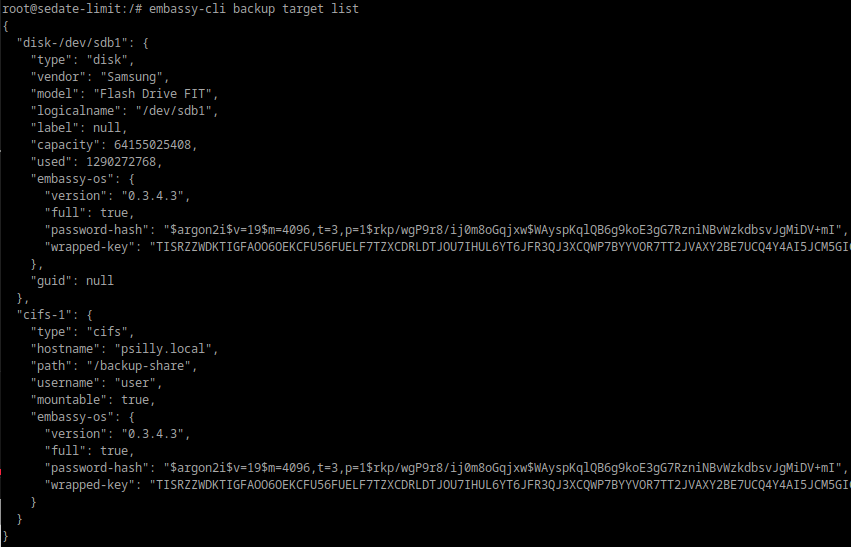
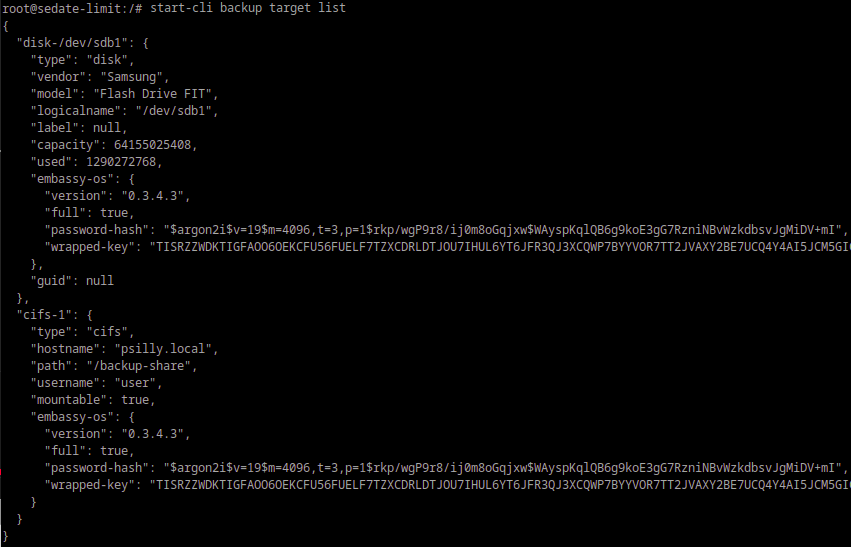
embassy-cli -> start-cli & touchups

Changed region(s): [[0.1528, 0.0, 0.4277, 0.0311]]

diff --git a/site/source/user-manual/overview/backup-restore/backup-advanced.rst b/site/source/user-manual/overview/backup-restore/backup-advanced.rst
@@ -20,7 +20,7 @@ Mount a Backup
 
     .. code-block:: bash
 
-        embassy-cli backup target list
+        start-cli backup target list
 
     .. figure:: /_static/images/backups/backup-target-list.png
         :width: 60%
@@ -29,7 +29,7 @@ Mount a Backup
 
     .. code-block:: bash
 
-        embassy-cli backup target mount disk-/dev/sdb1 "YourMasterPasswordGoesHere"
+        start-cli backup target mount disk-/dev/sdb1 "YourMasterPasswordGoesHere"
 
     .. figure:: /_static/images/backups/backup-mount.png
         :width: 60%
@@ -53,7 +53,7 @@ If you have an encrypted disk from a prior StartOS installation, you can mount i
 
     .. code-block:: bash
 
-        sudo apt update && sudo apt install cryptsetup
+        sudo apt update && sudo apt install -y cryptsetup
 
 #. Enter the following command to reveal your disk's crypto_LUKS filesystems and their labels:
 
